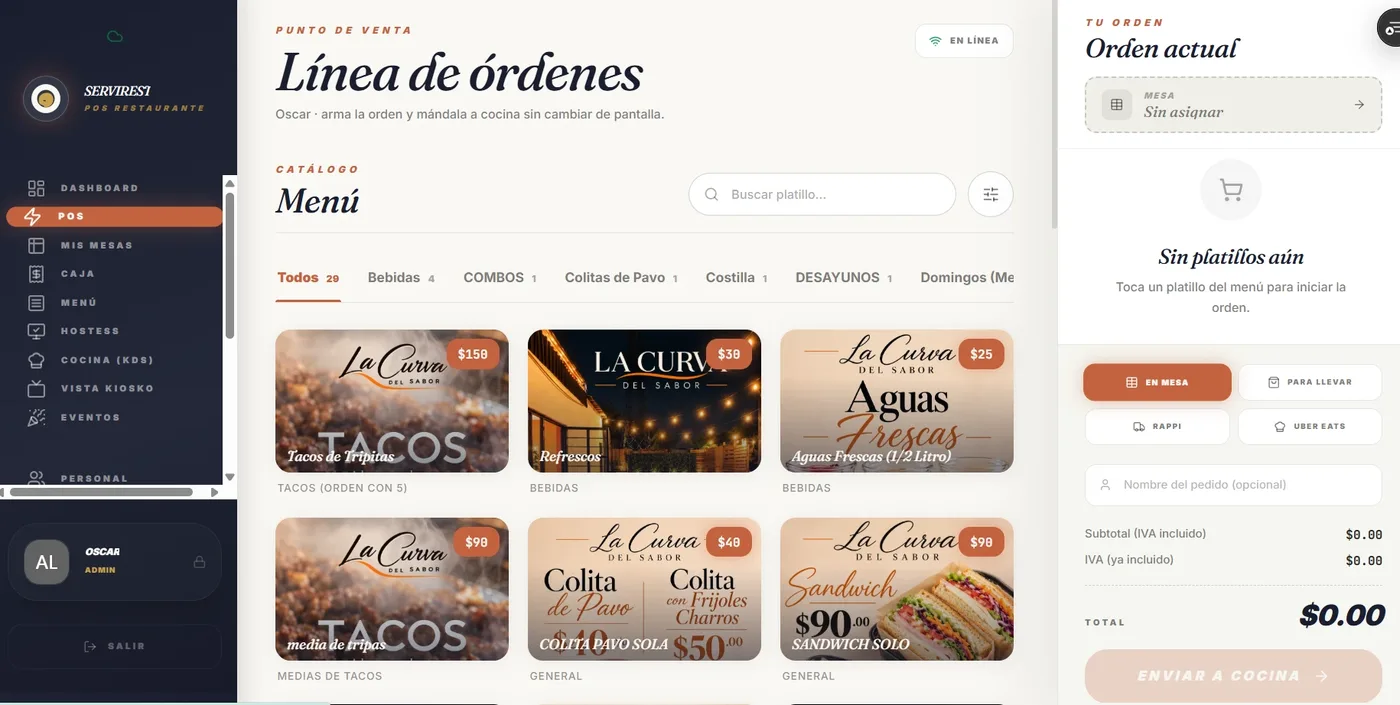
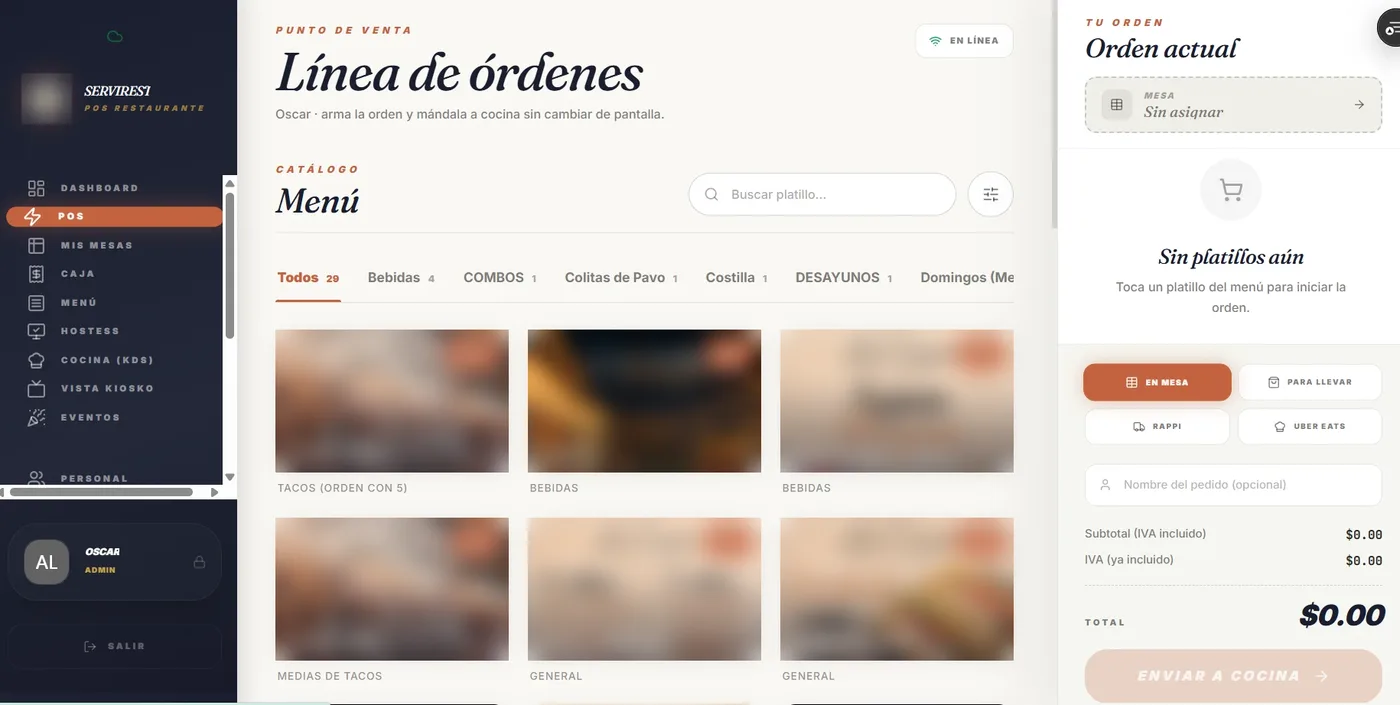
Capturas de Mono, Dogma, Andén y GENBA; herramientas y evidencia
- Portafolio: capturas de Mono Atelier, Dogma, Andén y el panel de
  GENBA. Nombres de clientes y personas difuminados (Servirest, Mono,
  Dogma).
- Workflows 02 y 03 sin la fila de evidencia.
- "Construimos con": se suman Hermes Agent, Codex, Manus, Firebase,
  SQL, Mercado Libre, QuickBooks, WhatsApp, Discord, Slack, Telegram,
  ElevenLabs, Higgsfield y Blender.

Claude-Session: https://claude.ai/code/session_01AzK6i9VKVcxqiPZYn1rFkH

diff --git a/index.html b/index.html
@@ -482,7 +482,7 @@
 
       <div class="wfhead">
         <h3 data-i18n="wfH3">Tres workflows donde empezamos.</h3>
-        <p data-i18n="wfH3p">Cada uno con su evidencia a la vista.</p>
+        <p data-i18n="wfH3p">Donde más tiempo se pierde en un negocio de servicios.</p>
       </div>
 
       <div class="wfgrid">
@@ -499,19 +499,11 @@
           <span class="wflabel" data-i18n="wf2label">02 / Ventas y CRM</span>
           <h4 data-i18n="wf2title">De lead recibido a siguiente acción clara.</h4>
           <p class="desc" data-i18n="wf2desc">Oportunidades capturadas, calificadas y con seguimiento, sin depender de que alguien actualice el CRM después de cada llamada.</p>
-          <div class="evidence">
-            <span class="elab" data-i18n="evLab">Evidencia</span>
-            <div class="chips"><span class="chip" data-i18n="ev2">Pipeline de ventas · Orka</span><span class="chip" data-i18n="ev2b">Cotización y seguimiento · Mono Atelier</span></div>
-          </div>
         </div>
         <div class="wfcard">
           <span class="wflabel" data-i18n="wf3label">03 / Atención al cliente</span>
           <h4 data-i18n="wf3title">De mensaje recibido a respuesta con contexto.</h4>
           <p class="desc" data-i18n="wf3desc">Conversaciones organizadas, intención identificada y borradores listos para aprobar donde la confianza importa.</p>
-          <div class="evidence">
-            <span class="elab" data-i18n="evLab">Evidencia</span>
-            <div class="chips"><span class="chip muted" data-i18n="ev3">Enfoque — primer caso en curso</span></div>
-          </div>
         </div>
       </div>
     </div>
@@ -655,7 +647,7 @@
 
       <div class="stackrow">
         <span class="elab" data-i18n="stackLab">Construimos con</span>
-        <div class="chips"><span class="chip">Claude</span><span class="chip">Supabase</span><span class="chip">Stripe</span><span class="chip">Vercel</span><span class="chip" data-i18n="stackFact">Facturapi · CFDI</span></div>
+        <div class="chips"><span class="chip">Claude</span><span class="chip">Hermes Agent</span><span class="chip">Codex</span><span class="chip">Manus</span><span class="chip">Supabase</span><span class="chip">Firebase</span><span class="chip">SQL</span><span class="chip">Vercel</span><span class="chip">Stripe</span><span class="chip">Mercado Libre</span><span class="chip">QuickBooks</span><span class="chip">WhatsApp</span><span class="chip">Discord</span><span class="chip">Slack</span><span class="chip">Telegram</span><span class="chip">ElevenLabs</span><span class="chip">Higgsfield</span><span class="chip">Blender</span><span class="chip" data-i18n="stackFact">Facturapi · CFDI</span><span class="chip muted" data-i18n="stackMore">y más</span></div>
       </div>
     </div>
   </section>
@@ -692,19 +684,21 @@
           <span class="parrow" data-i18n="pSee">Ver plataforma →</span>
         </a>
         <div class="pitem">
+          <span class="pthumb"><img src="/assets/casos/mono-panel.webp" width="1400" height="725" alt="Tablero ejecutivo de Mono Atelier" loading="lazy" decoding="async"></span>
           <div class="prow"><span class="pname">Mono Atelier</span><span class="pstatus live"><i></i><span data-i18n="stYear">1 año en operación</span></span></div>
           <span class="psector" data-i18n="mSec">Diseño y fabricación de muebles</span>
           <p class="pdesc" data-i18n="mDesc">Proyecto propio. ERP con cotización, seguimiento a clientes, facturación y timbrado CFDI ante el SAT, más un agente de cotización.</p>
         </div>
         <div class="pitem">
-          <div class="prow"><span class="pname">Lana</span><span class="pstatus live"><i></i><span data-i18n="stDaily">En uso diario</span></span></div>
-          <span class="psector" data-i18n="lSec">Finanzas personales</span>
-          <p class="pdesc" data-i18n="lDesc">Gastos por categoría, flujo de efectivo, gastos fijos y un asistente de IA que responde qué puedes pagar.</p>
-        </div>
-        <div class="pitem">
+          <span class="pthumb"><img src="/assets/casos/dogma-panel.webp" width="1400" height="658" alt="Dogma: mesa de diseño por pieza de una colección" loading="lazy" decoding="async"></span>
           <div class="prow"><span class="pname">Dogma</span><span class="pstatus"><i></i><span data-i18n="stIndigo">Hecha para Indigo</span></span></div>
           <span class="psector" data-i18n="dgSec">Moda y confección</span>
           <p class="pdesc" data-i18n="dgDesc">Arreglos y prendas a la medida: pedidos, avance de cada proyecto y pagos en línea.</p>
+        </div>
+        <div class="pitem">
+          <div class="prow"><span class="pname">Lana</span><span class="pstatus live"><i></i><span data-i18n="stDaily">En uso diario</span></span></div>
+          <span class="psector" data-i18n="lSec">Finanzas personales</span>
+          <p class="pdesc" data-i18n="lDesc">Gastos por categoría, flujo de efectivo, gastos fijos y un asistente de IA que responde qué puedes pagar.</p>
         </div>
       </div>
       <p class="plabel" data-i18n="pDev">En desarrollo</p>
@@ -724,13 +718,14 @@
           <span class="parrow" data-i18n="pSee">Ver plataforma →</span>
         </a>
         <a class="pitem" href="https://genba-box.vercel.app/" target="_blank" rel="noopener">
-          <span class="pthumb"><img src="/assets/casos/genba-estudios.webp" width="960" height="540" alt="GENBA: estudio de tiempo desde un video" loading="lazy" decoding="async"></span>
+          <span class="pthumb"><img src="/assets/casos/genba-panel.webp" width="1400" height="673" alt="GENBA: panel de planta con balance de línea y cuello de botella" loading="lazy" decoding="async"></span>
           <div class="prow"><span class="pname">GENBA</span></div>
           <span class="psector" data-i18n="gSec">Ingeniería industrial</span>
           <p class="pdesc" data-i18n="gDesc">Estudios de tiempo, balanceo de línea y capacidad generados con IA desde un video.</p>
           <span class="parrow" data-i18n="pSee">Ver plataforma →</span>
         </a>
         <div class="pitem">
+          <span class="pthumb"><img src="/assets/casos/anden-panel.webp" width="1400" height="574" alt="Andén: tablero de auditoría del transporte de personal" loading="lazy" decoding="async"></span>
           <div class="prow"><span class="pname">Andén</span></div>
           <span class="psector" data-i18n="aSec">Transporte de personal</span>
           <p class="pdesc" data-i18n="aDesc">Auditoría del servicio de transporte en tres vías: personal, maquiladora y transportista.</p>
@@ -853,7 +848,7 @@
       pr1t:"Conectado a tus datos reales", pr1d:"Lee tu ERP, tu CRM o tu base de datos, no una copia suelta.",
       pr2t:"En el canal que ya usas", pr2d:"Discord, la web o la herramienta donde tu equipo ya trabaja.",
       pr3t:"Una persona aprueba lo importante", pr3d:"El agente prepara; tu equipo decide antes de enviar, cobrar o facturar.",
-      stackLab:"Construimos con", stackFact:"Facturapi · CFDI",
+      stackLab:"Construimos con", stackFact:"Facturapi · CFDI", stackMore:"y más",
       stYear:"1 año en operación", mSec:"Diseño y fabricación de muebles",
       mDesc:"Proyecto propio. ERP con cotización, seguimiento a clientes, facturación y timbrado CFDI ante el SAT, más un agente de cotización.",
       stDaily:"En uso diario", lSec:"Finanzas personales", lDesc:"Gastos por categoría, flujo de efectivo, gastos fijos y un asistente de IA que responde qué puedes pagar.",
@@ -876,7 +871,7 @@
       fst2:"Tableros integrados que sustituyeron los reportes externos de Power BI.",
       fst3:"Agentes de IA para aprobaciones, seguimiento de ventas y reportes.",
       fst4:"Talleres entre áreas y capacitación práctica para la adopción.",
-      wfH3:"Tres workflows donde empezamos.", wfH3p:"Cada uno con su evidencia a la vista.", evLab:"Evidencia",
+      wfH3:"Tres workflows donde empezamos.", wfH3p:"Donde más tiempo se pierde en un negocio de servicios.", evLab:"Evidencia",
       wf1label:"01 / Operaciones", wf1title:"De proceso disperso a operación con una fuente de verdad.",
       wf1desc:"Solicitudes, documentos, responsables y aprobaciones conectados, para que la operación no dependa de mensajes sueltos.",
       wf2label:"02 / Ventas y CRM", wf2title:"De lead recibido a siguiente acción clara.",
@@ -945,7 +940,7 @@
       pr1t:"Connected to your real data", pr1d:"It reads your ERP, CRM or database, not a loose copy.",
       pr2t:"In the channel you already use", pr2d:"Discord, the web or wherever your team already works.",
       pr3t:"A person approves what matters", pr3d:"The agent prepares; your team decides before anything is sent, charged or invoiced.",
-      stackLab:"We build with", stackFact:"Facturapi · CFDI",
+      stackLab:"We build with", stackFact:"Facturapi · CFDI", stackMore:"and more",
       stYear:"1 year running", mSec:"Furniture design and fabrication",
       mDesc:"Our own company. ERP with quoting, client follow-up, invoicing and CFDI stamping with Mexico's SAT, plus a quoting agent.",
       stDaily:"In daily use", lSec:"Personal finance", lDesc:"Expenses by category, cash flow, fixed expenses and an AI assistant that tells you what you can afford.",
@@ -968,7 +963,7 @@
       fst2:"Built-in dashboards that replaced the outside Power BI reports.",
       fst3:"AI agents for approvals, sales follow-up and reporting.",
       fst4:"Cross-team workshops and hands-on training for adoption.",
-      wfH3:"Three workflows where we start.", wfH3p:"Each one with its evidence in view.", evLab:"Evidence",
+      wfH3:"Three workflows where we start.", wfH3p:"Where a service business loses the most time.", evLab:"Evidence",
       wf1label:"01 / Operations", wf1title:"From scattered process to one source of truth.",
       wf1desc:"Requests, documents, owners and approvals connected, so operations stop depending on loose messages.",
       wf2label:"02 / Sales & CRM", wf2title:"From lead received to a clear next action.",
